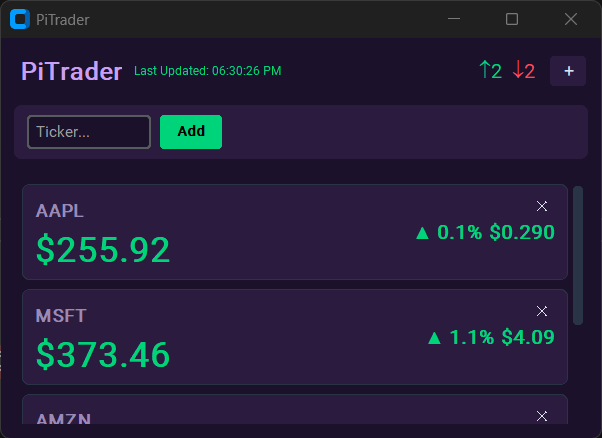
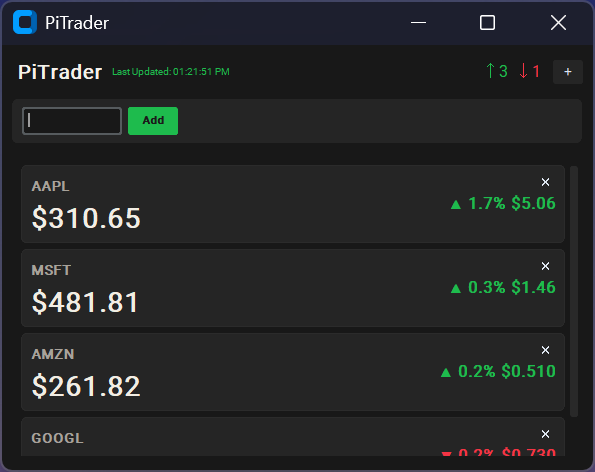
Release v0.1.1 - Modified color palette

diff --git a/src/main.py b/src/main.py
@@ -21,12 +21,13 @@ class StockTrackerApp(ctk.CTk):
         self.geometry("480x320")
         self.attributes('-fullscreen', False)
         
-        self.bg_primary = "#1c112b"
-        self.bg_card = "#2a1b3f"
-        self.accent_green = "#00d47a"
-        self.accent_red = "#ff4757"
-        self.text_primary = "#c9a0f5"
-        self.text_secondary = "#9b8ab8"
+        self.bg_primary = "#181818"
+        self.bg_card = "#252525"
+        # self.accent_green = "#B96CFF"
+        self.accent_green = "#1EBB4D"
+        self.accent_red = "#F53444"
+        self.text_primary = "#f5f1ea"
+        self.text_secondary = "#a8a29a"
         self.configure(fg_color=self.bg_primary)
         self.client = finnhub.Client(api_key=API_KEY)
         self.symbols = self.load_portfolio()
@@ -113,7 +114,7 @@ class StockTrackerApp(ctk.CTk):
             height=24,
             font=ctk.CTkFont(size=14),
             fg_color=self.bg_card,
-            hover_color="#3a2a5a",
+            hover_color="#3A3A3A",
             corner_radius=4
         )
         self.edit_btn.pack(side="left", padx=(8, 0))
@@ -143,8 +144,8 @@ class StockTrackerApp(ctk.CTk):
             height=28,
             font=ctk.CTkFont(size=11, weight="bold"),
             fg_color=self.accent_green,
-            text_color="#000000",
-            hover_color="#00cc6f",
+            text_color="#1b1b1b",
+            hover_color="#3dc470",
             corner_radius=4
         )
         add_btn.pack(side="left")
@@ -154,7 +155,7 @@ class StockTrackerApp(ctk.CTk):
             fg_color=self.bg_card,
             corner_radius=12,
             border_width=2,
-            border_color="#3a2a5a"
+            border_color="#383838"
         )
         
         closed_content = ctk.CTkFrame(self.closed_frame, fg_color="transparent")
@@ -190,8 +191,8 @@ class StockTrackerApp(ctk.CTk):
             height=32,
             font=ctk.CTkFont(size=13, weight="bold"),
             fg_color=self.accent_green,
-            text_color="#000000",
-            hover_color="#00cc6f",
+            text_color="#1a1a1a",
+            hover_color="#3dc470",
             corner_radius=6
         )
         view_btn.pack()
@@ -199,8 +200,8 @@ class StockTrackerApp(ctk.CTk):
         self.stocks_frame = ctk.CTkScrollableFrame(
             self,
             fg_color="transparent",
-            scrollbar_button_color="#2a3447",
-            scrollbar_button_hover_color="#3a2a5a"
+            scrollbar_button_color="#292929",
+            scrollbar_button_hover_color="#353535"
         )
         self.stocks_frame.pack(pady=(5, 5), padx=10, fill="both", expand=True)
         
@@ -236,7 +237,7 @@ class StockTrackerApp(ctk.CTk):
             fg_color=self.bg_card,
             corner_radius=6,
             border_width=1,
-            border_color="#2a3447"
+            border_color="#2b2b2b"
         )
         frame.pack(pady=3, fill="x")
         
@@ -341,7 +342,7 @@ class StockTrackerApp(ctk.CTk):
                 price_text = f"${price:.3f}"
             else:
                 price_text = f"${price:.2f}"
-            frames['price_label'].configure(text=price_text, text_color=color)
+            frames['price_label'].configure(text=price_text, text_color="#F2EDE4")
             
             if abs(change) < 1:
                 dollar_text = f"${abs(change):.3f}"
